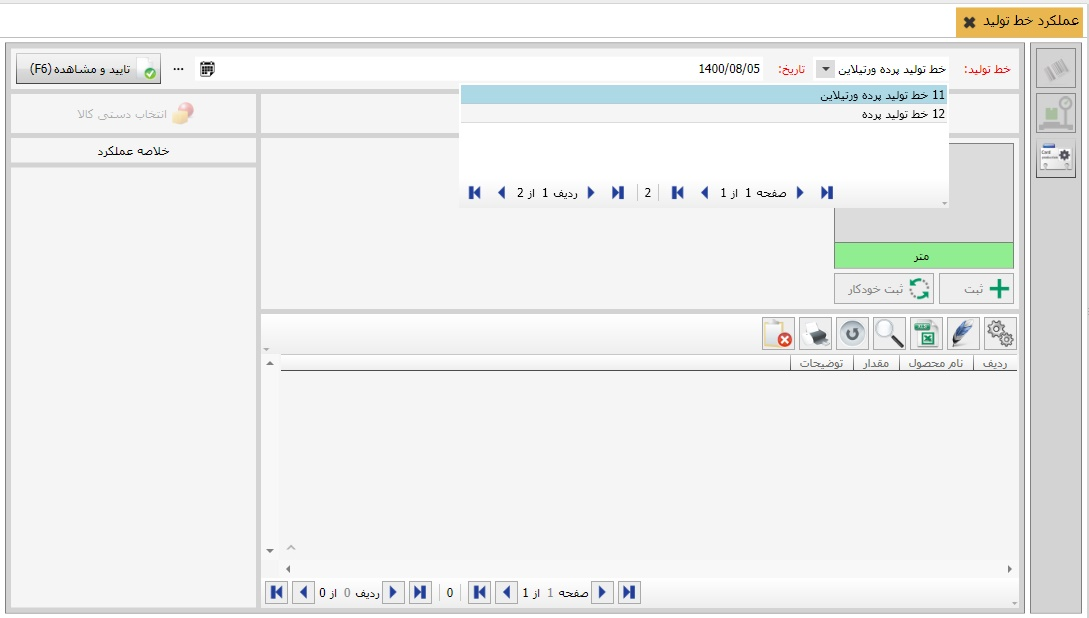
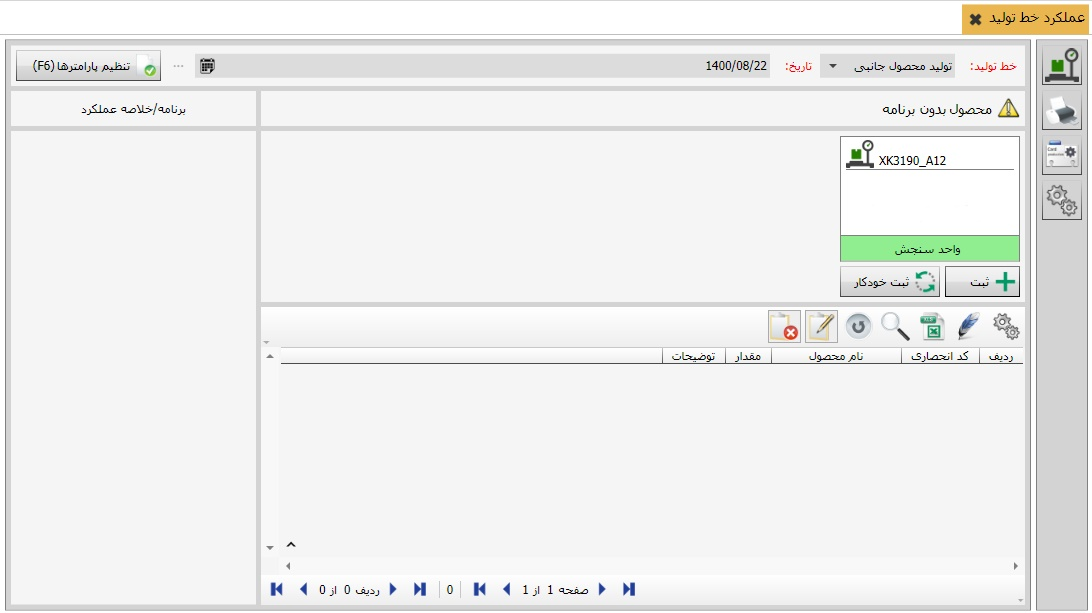
ایجاد توضیحات ترازو

diff --git a/Help/fa-IR/_09_برنامه ریزی و تولید/_10_عملکرد خط تولید/Index.html b/Help/fa-IR/_09_برنامه ریزی و تولید/_10_عملکرد خط تولید/Index.html
@@ -10,12 +10,37 @@
 			<h1> عملکرد خط تولید </h1>
 		</div>
 		<p>
-		برای بررسی عملکرد خط تولید، لطفا «عملکرد خط تولید» را کلیک نمایید.پس از نمایش
+		برای بررسی عملکرد خط تولید، لطفا «عملکرد خط تولید» را کلیک نمایید. پس از نمایش
 		صفحه محاسبات نمایش داده می شود.برای مشاهده عملکرد خط تولید لطفن خط تولید 
-		موردنظرتان را انتخاب نمایید و سپس دکمه «تایید و مشاهده » را کلیک کنید.
-		اکنون گزینه ترازو و بارکدخوان نیز برای شما فعال و قابل نمایش می گردند.
+		موردنظرتان را انتخاب نمایید و سپس دکمه «تایید و مشاهده» را کلیک کنید.
+		اکنون گزینه ترازو و<a href="../../_06_خرید و فروش/_09_صدور و ویرایش سند خرید و فروش/Index.html"> بارکدخوان</a> نیز برای شما فعال و قابل نمایش می گردند.
 		</p>
 		<img class="FitPic" src="l1.jpg"/>
-		لازم به توضیح است که ابزارهای «ترازو» و «بارکد خوان» در حال راه اندازی می باشد.
+		<p>
+			<h1>استفاده از ترازو</h1>
+		برای استفاده به دستگاه ترازو تنها کافیست، ترازو را با توجه به نوع پورت آن به سیستم خود متصل نمایید.
+		لازم به توضیح است که ترازو به کار برده شد در این راهنمای آموزشی،XK3190-A12 می باشد.
+		پس از اتصال پورت ترازو به سیستم خود. لطفا ترازو را روشن نمایید.
+		در صورتیکه ترازو به وسیله نرم افزار تشخیص داده شود، شما می توانید از طریق منوی
+		«برنامه ریزی و تولید» ، فرم «عملکرد خط تولید» را کلیک کنید.
+		<img class="FitPic" src="l2.jpg"/>
+		حال از طریق دکمه «تنظیمات»  در تب «ترازو» امکان تعریف دستگاه ترازو از طریق فیلدهای
+		«نوع ترازو» شماره مدل ترازوی متصل به سیستم ، «وقفه» میزان زمانی نرم افزار
+		برای محاسبه وزن نیاز دارد. و علاوه بر آن پورت اتصال به سیستم قابل تعریف می باشد.
+		همانند آنچه که در تصویر ذیل مشاهده می نمایید.
+		</p>	
+		<img class="FitPic" src="l3.jpg"/>
+		<p>
+		اکنون از طریق «برنامه ریزی خط تولید» که پیشتر به آن نیز اشاره شده است، می توانید 
+		محاسبات محصولات خود را بر اساس خطوط تولید از پیش تعریف شده، اعمال نمایید. 
+		پس از محاسبه وزن کالا، شما می توانید، آن را از طریق دستگاه ثبت و مشاهده نمایید.	
+		</p>
+		<img class="FitPic" src="l4.jpg"/>
+		<p>
+		لازم به توضیح است که 
+		1.پس از ثبت محاسبات، می توان،میزان وزن جعبه، وزن محصول و محاسبات آن نیز وجود دارد.
+		2.همانطور که پیشتر نیز توضیح داده شد، امکان ثبت و ایجاد برچسب بارکد  محصولات در این فرم همزمان قابل اجرا می باشد.
+		3.در صورتی که تمایل به ثبت دستی محاسبات دارید، این امکان برای شما مهیا گردیده است.
+		</p>
 	</body>
 </html>
